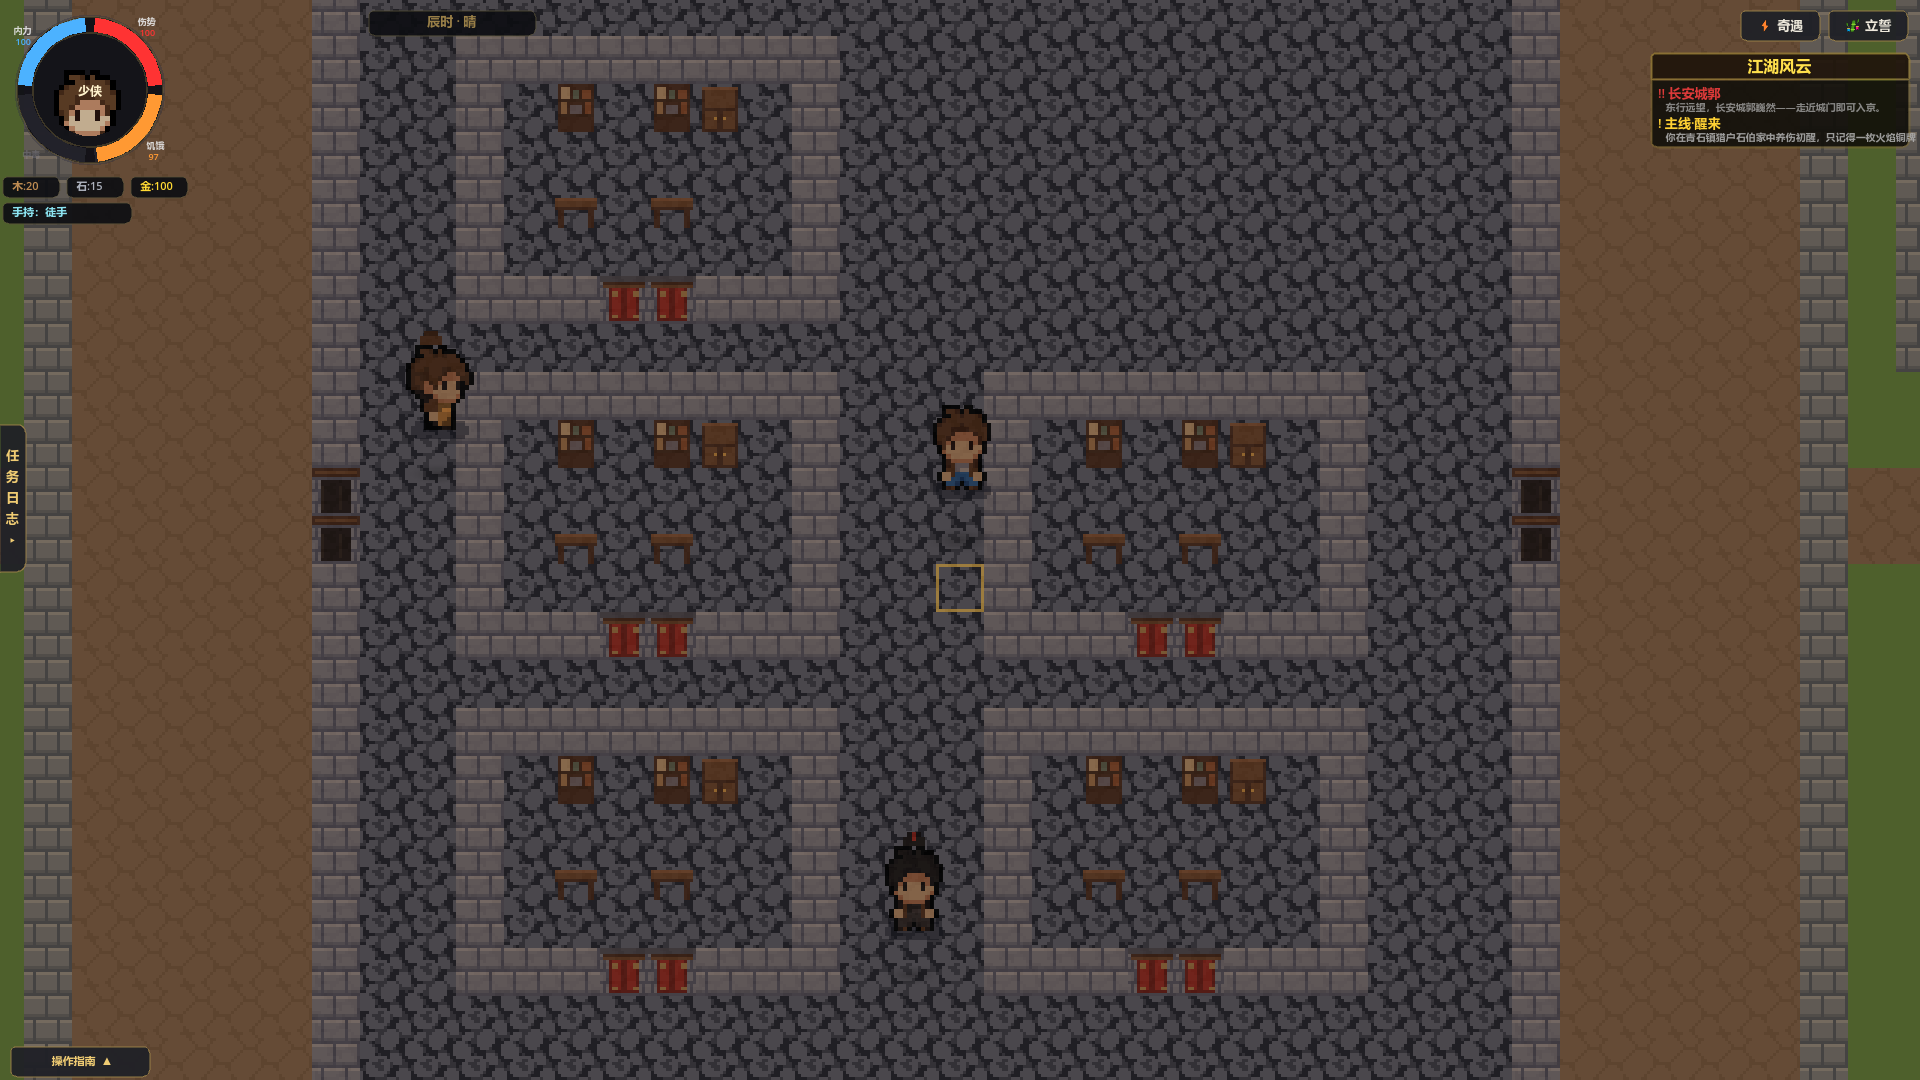
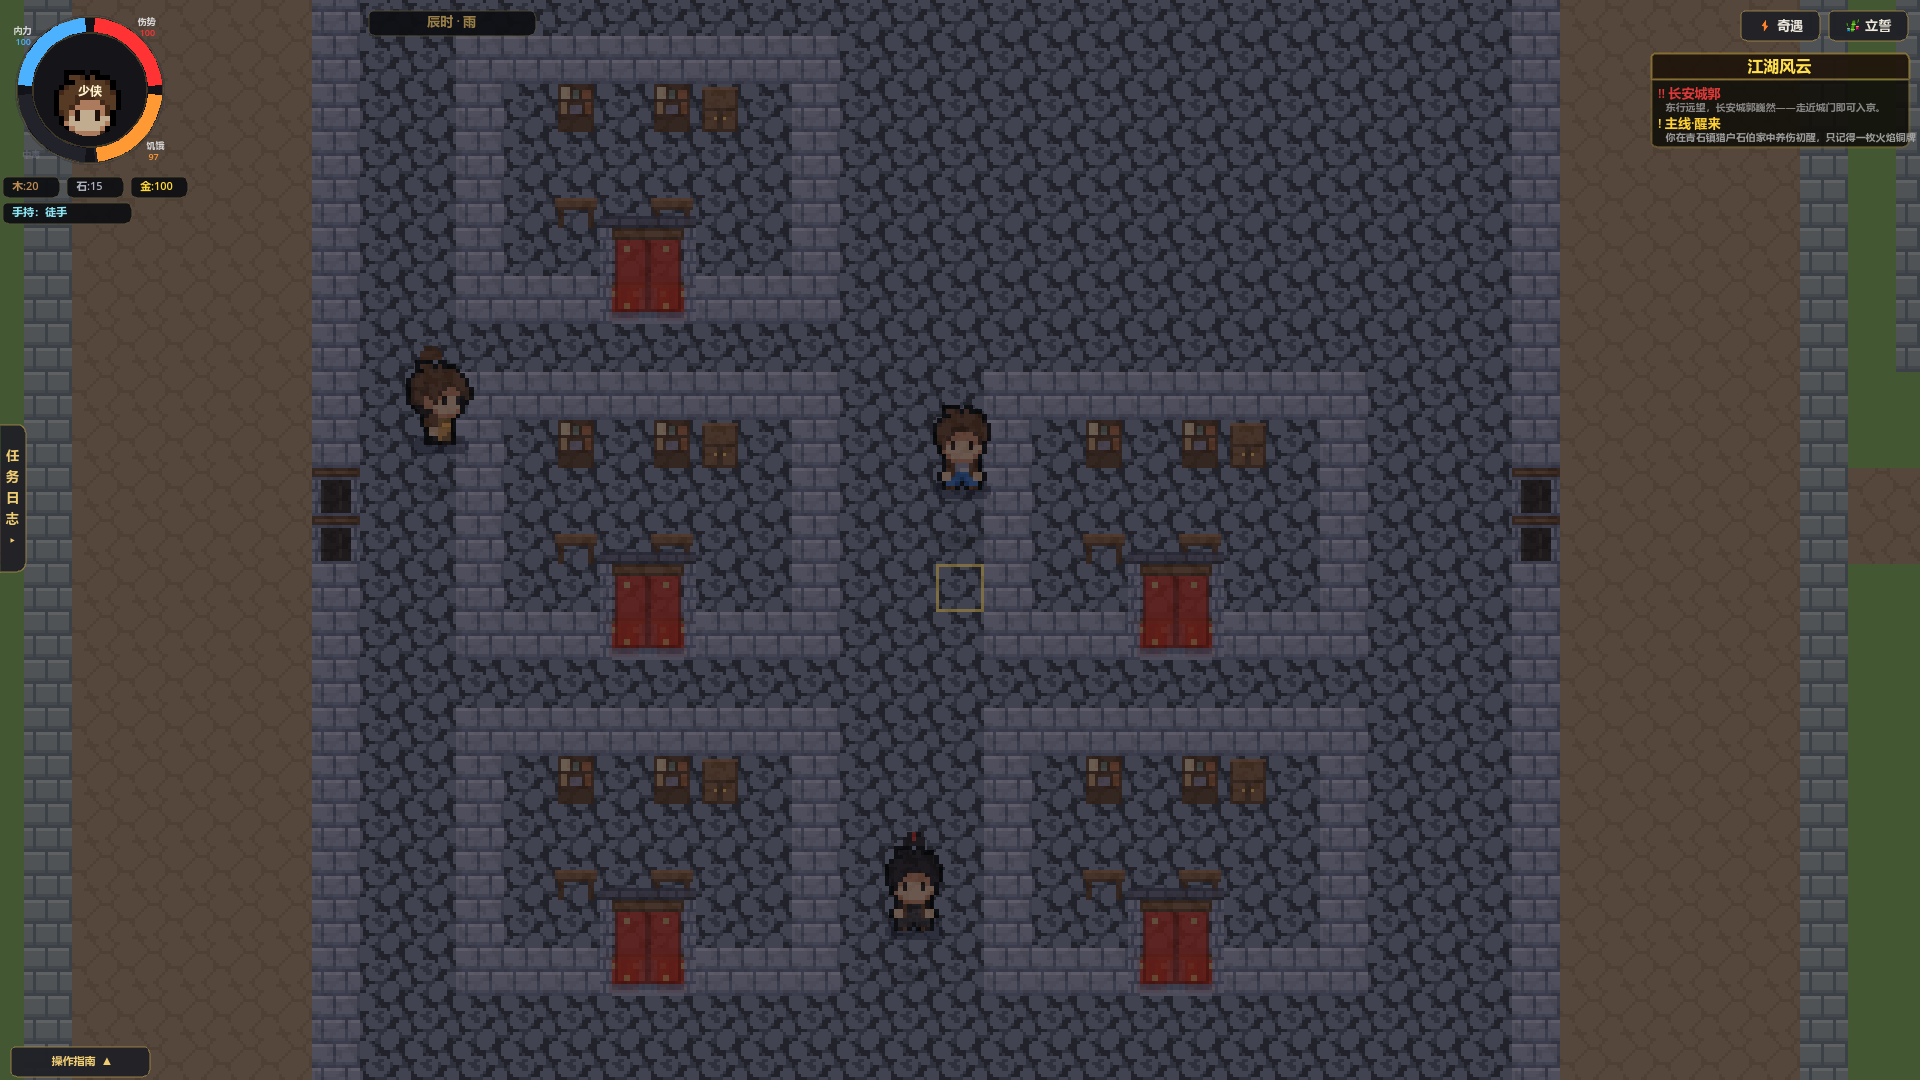
feat: 长安视觉收尾①宅门门楼——32x36三品级prop与人物体型相当, 修复用户反馈的门脸偏小(regress121绿/E2E 23PASS/场景探针30座PASS)
- gen_changan_tiles +draw_gate_tower: 青瓦出檐+门楣门簪+品级门扇(A五路金钉/B素铜钉/C黑漆)+砖垛门槛, Slice D色系锚自动跟随
- changan_generator _spawn_gate_tower: lots四向+西市店铺门面共30座, Sprite锚底y-sort z2, 纯视觉增高零逻辑改动(瓦片门面保留=传送垫+断言基准)
- 踩坑: 模块级px/rect是TS=16硬编码, 大幅面绘制须函数内自带画笔; 工具链多层吃反斜杠, 字节字面量用bytes([..])构造+写后重读验证
- 探针: 门楼数=门面瓦/2(铺设真值推导); E2E +门前2格采样样张
- 24宽初版盖不满2格门面露底层瓦成双门错觉→加宽32

diff --git a/tools/gen_changan_tiles.py b/tools/gen_changan_tiles.py
@@ -307,6 +307,70 @@ def draw_shelf():
     rect(t, 11, 6, 12, 9, (150, 96, 60))
     return [t[y*TS*4:(y+1)*TS*4] for y in range(TS)]
 
+
+# ---- Slice F 宅门楼（24x36 prop）：檐口青瓦+门楣+品级门扇+砖垛——视觉尺寸与人物(31.5px)相当 ----
+# 注意：模块级 px/rect/brick_rect 均为 TS=16 硬编码，本函数自带 24x36 画笔（曾误用致写入越界丢弃+错位）
+TS_TOWER_W, TS_TOWER_H = 32, 36   # 32宽=完整盖住2格门面（24宽曾露底层门瓦成双门错觉）
+
+def draw_gate_tower(grade: str):
+    W, H = TS_TOWER_W, TS_TOWER_H
+    t = bytearray(W * H * 4)
+    TILE_G, TILE_GD = (86, 92, 114), (62, 66, 88)
+    def pxl(x, y, c):
+        if 0 <= x < W and 0 <= y < H:
+            o = (y * W + x) * 4
+            t[o:o+4] = bytes(c) + bytes([255])
+    def r(x0, y0, x1, y1, c):
+        for y in range(y0, y1 + 1):
+            for x in range(x0, x1 + 1):
+                pxl(x, y, c)
+    def brick(x0, y0, x1, y1):
+        r(x0, y0, x1, y1, BRICK)
+        for y in range(y0, y1 + 1, 4):
+            r(x0, min(y1, y + 3), x1, min(y1, y + 3), BRICK_DARK)
+        for band, y in enumerate(range(y0, y1 + 1, 4)):
+            jx = x0 + (2 if band % 2 == 0 else 1)
+            if jx <= x1:
+                for yy in range(y, min(y1, y + 3) + 1):
+                    pxl(jx, yy, BRICK_DARK)
+    # 檐口：出挑青瓦（顶缘暗+瓦垄竖线+檐下阴影）
+    r(0, 0, W - 1, 0, TILE_GD)
+    r(0, 1, W - 1, 2, TILE_G)
+    for x in (6, 12, 19, 25):
+        r(x, 1, x, 2, TILE_GD)
+    r(0, 3, W - 1, 3, (52, 56, 72))
+    # 墙垛（坊墙同款砌法，左右各4px）
+    brick(0, 4, 3, H - 1)
+    brick(W - 4, 4, W - 1, H - 1)
+    # 门楣
+    r(4, 4, W - 5, 7, WOOD_D)
+    r(5, 5, W - 6, 6, WOOD_M)
+    if grade == "A":
+        for xx in (10, 20):
+            r(xx, 4, xx + 1, 4, GOLD)          # 金色门簪
+    # 门扇 y8..31
+    if grade == "C":
+        r(5, 8, W - 6, 31, (48, 40, 36))
+        r(15, 8, 16, 31, (34, 28, 26))
+        r(5, 30, W - 6, 30, (34, 28, 26))
+    else:
+        r(5, 8, W - 6, 31, RED_M)
+        r(15, 8, 16, 31, RED_D)
+        r(5, 8, 5, 31, RED_D)
+        r(W - 6, 8, W - 6, 31, RED_D)
+        if grade == "A":                       # 五路门钉
+            for yy in (10, 15, 20, 25, 29):
+                for xx in (8, 11, 17, 20):
+                    pxl(xx, yy, GOLD)
+            r(9, 18, 22, 18, GOLD)             # 门环横钹
+        else:                                  # 素铜钉四角
+            for xx, yy in ((8, 10), (21, 10), (8, 29), (21, 29)):
+                r(xx, yy, xx + 1, yy + 1, (176, 148, 96))
+        r(5, 31, W - 6, 31, RED_D)             # 下横枨
+    r(4, 32, W - 5, 33, BRICK_DARK)            # 门槛石
+    r(4, 34, W - 5, 35, BRICK)                 # 门枕
+    return [t[y * W * 4:(y + 1) * W * 4] for y in range(H)]
+
 if __name__ == "__main__":
     save_png(os.path.join(TILES, "ward_gate_closed.png"), TS, TS, draw_gate(False))
     save_png(os.path.join(TILES, "ward_gate_open.png"), TS, TS, draw_gate(True))
@@ -326,5 +390,8 @@ if __name__ == "__main__":
     save_png(os.path.join(TILES, "interior_couch.png"), TS, TS, draw_couch())
     save_png(os.path.join(TILES, "interior_cabinet.png"), TS, TS, draw_cabinet())
     save_png(os.path.join(TILES, "interior_shelf.png"), TS, TS, draw_shelf())
+    save_png(os.path.join(TILES, "changan_gate_tower_a.png"), TS_TOWER_W, TS_TOWER_H, draw_gate_tower("A"))
+    save_png(os.path.join(TILES, "changan_gate_tower_b.png"), TS_TOWER_W, TS_TOWER_H, draw_gate_tower("B"))
+    save_png(os.path.join(TILES, "changan_gate_tower_c.png"), TS_TOWER_W, TS_TOWER_H, draw_gate_tower("C"))
     print("[changan-tiles] BRICK=", BRICK, "DARK=", BRICK_DARK,
           "wrote ward_gate×2 + mansion_gate a/b/c + palace/outer wall + zhuque + interior×10")
